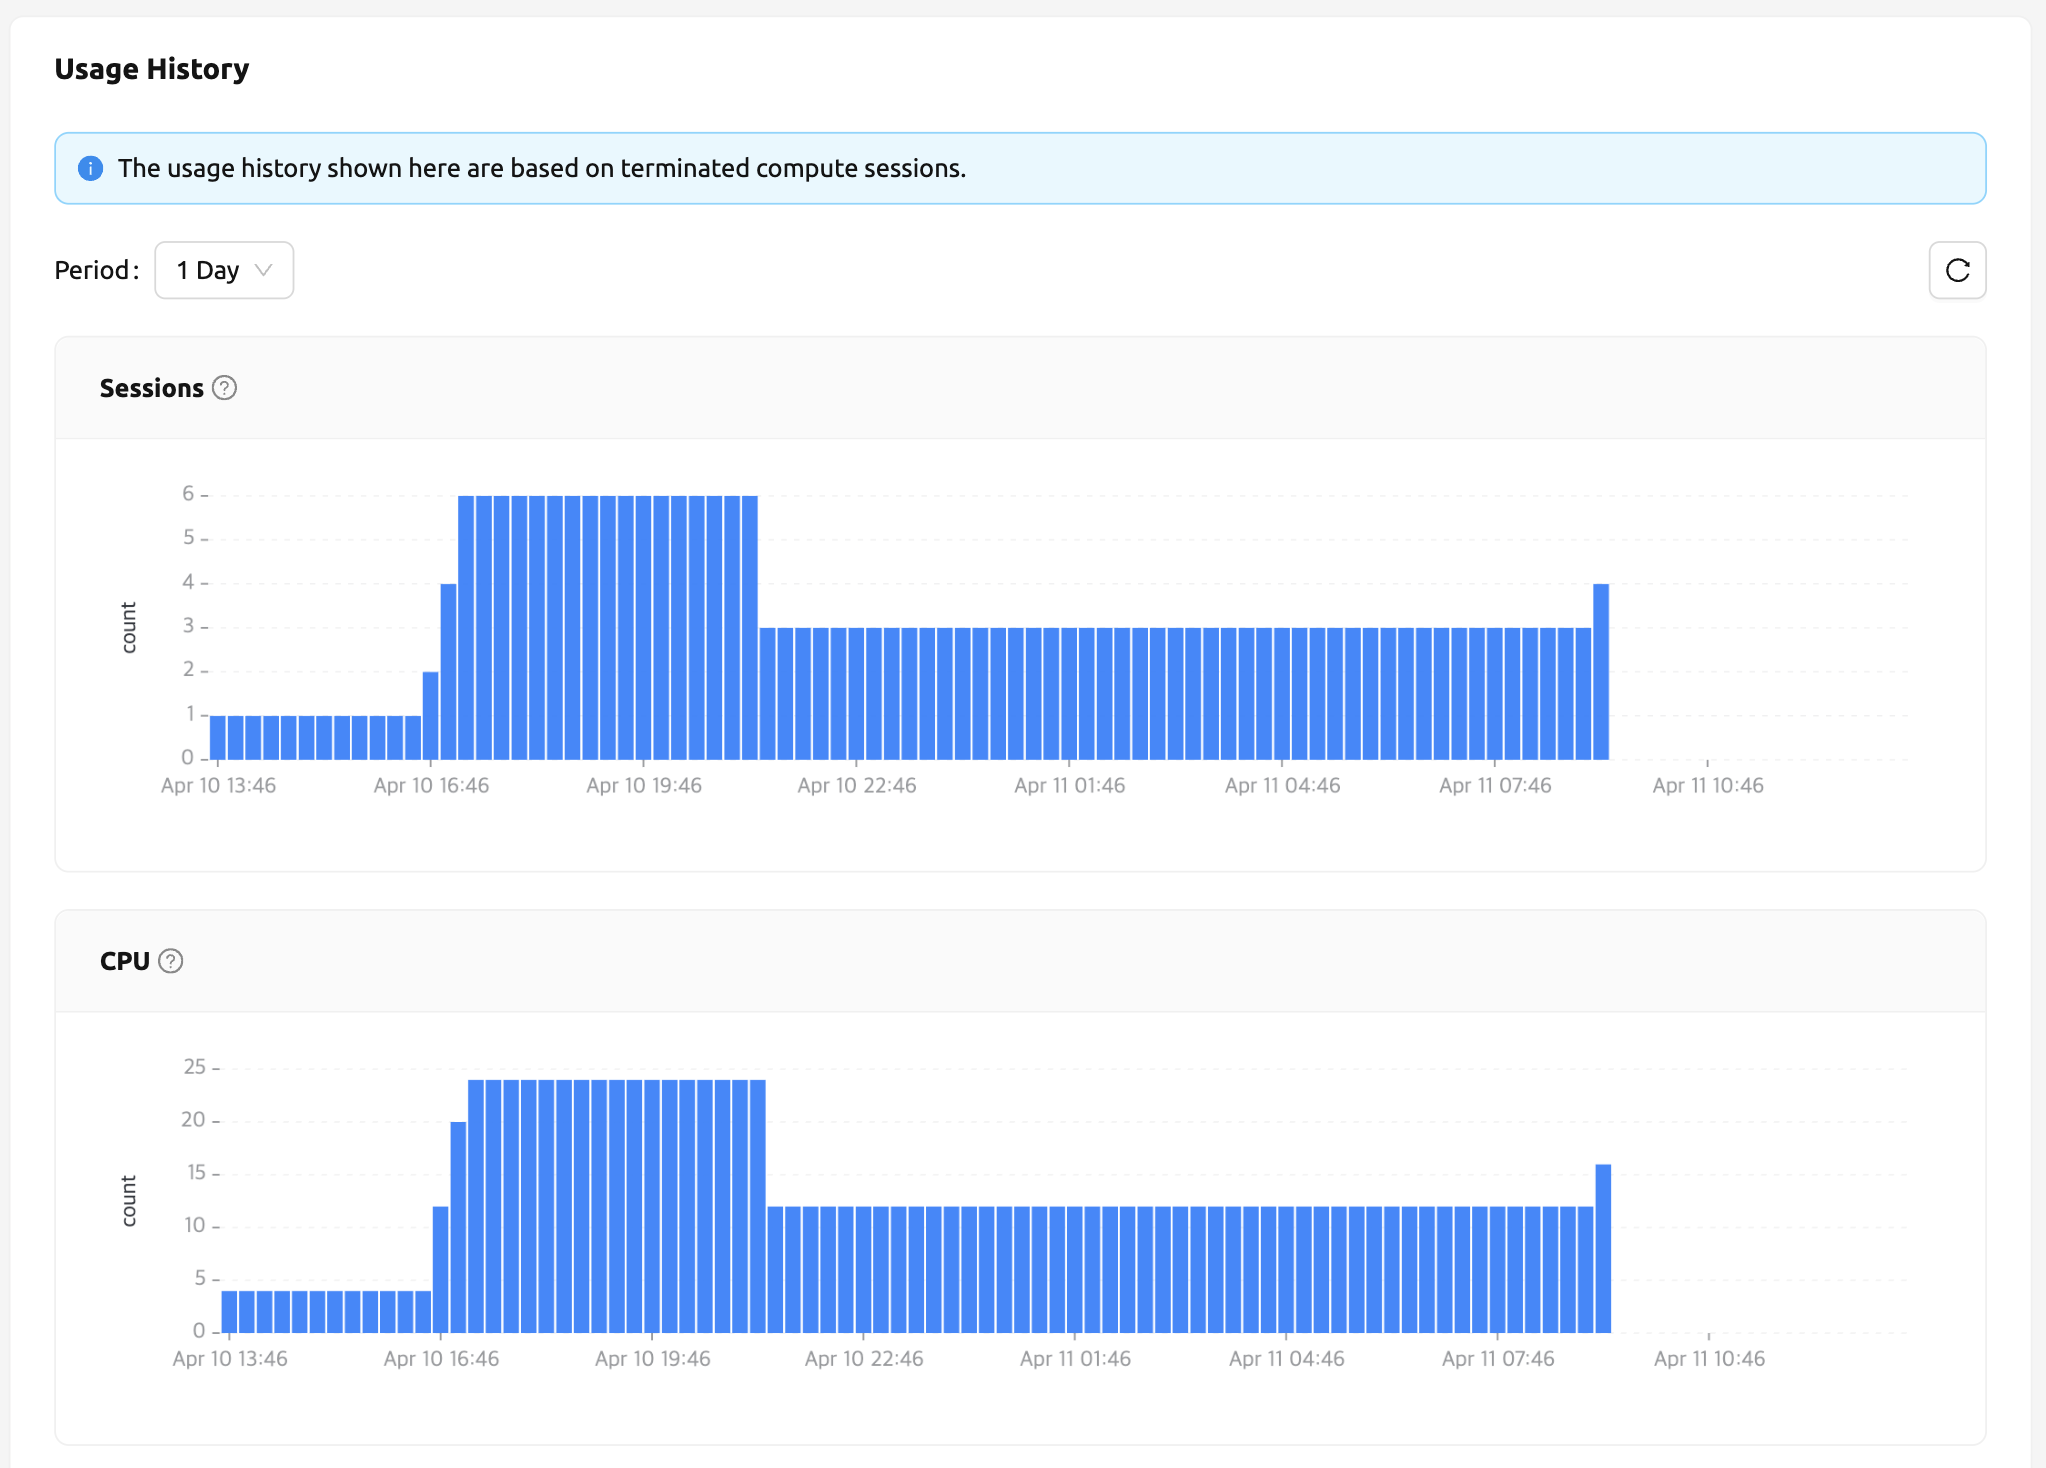
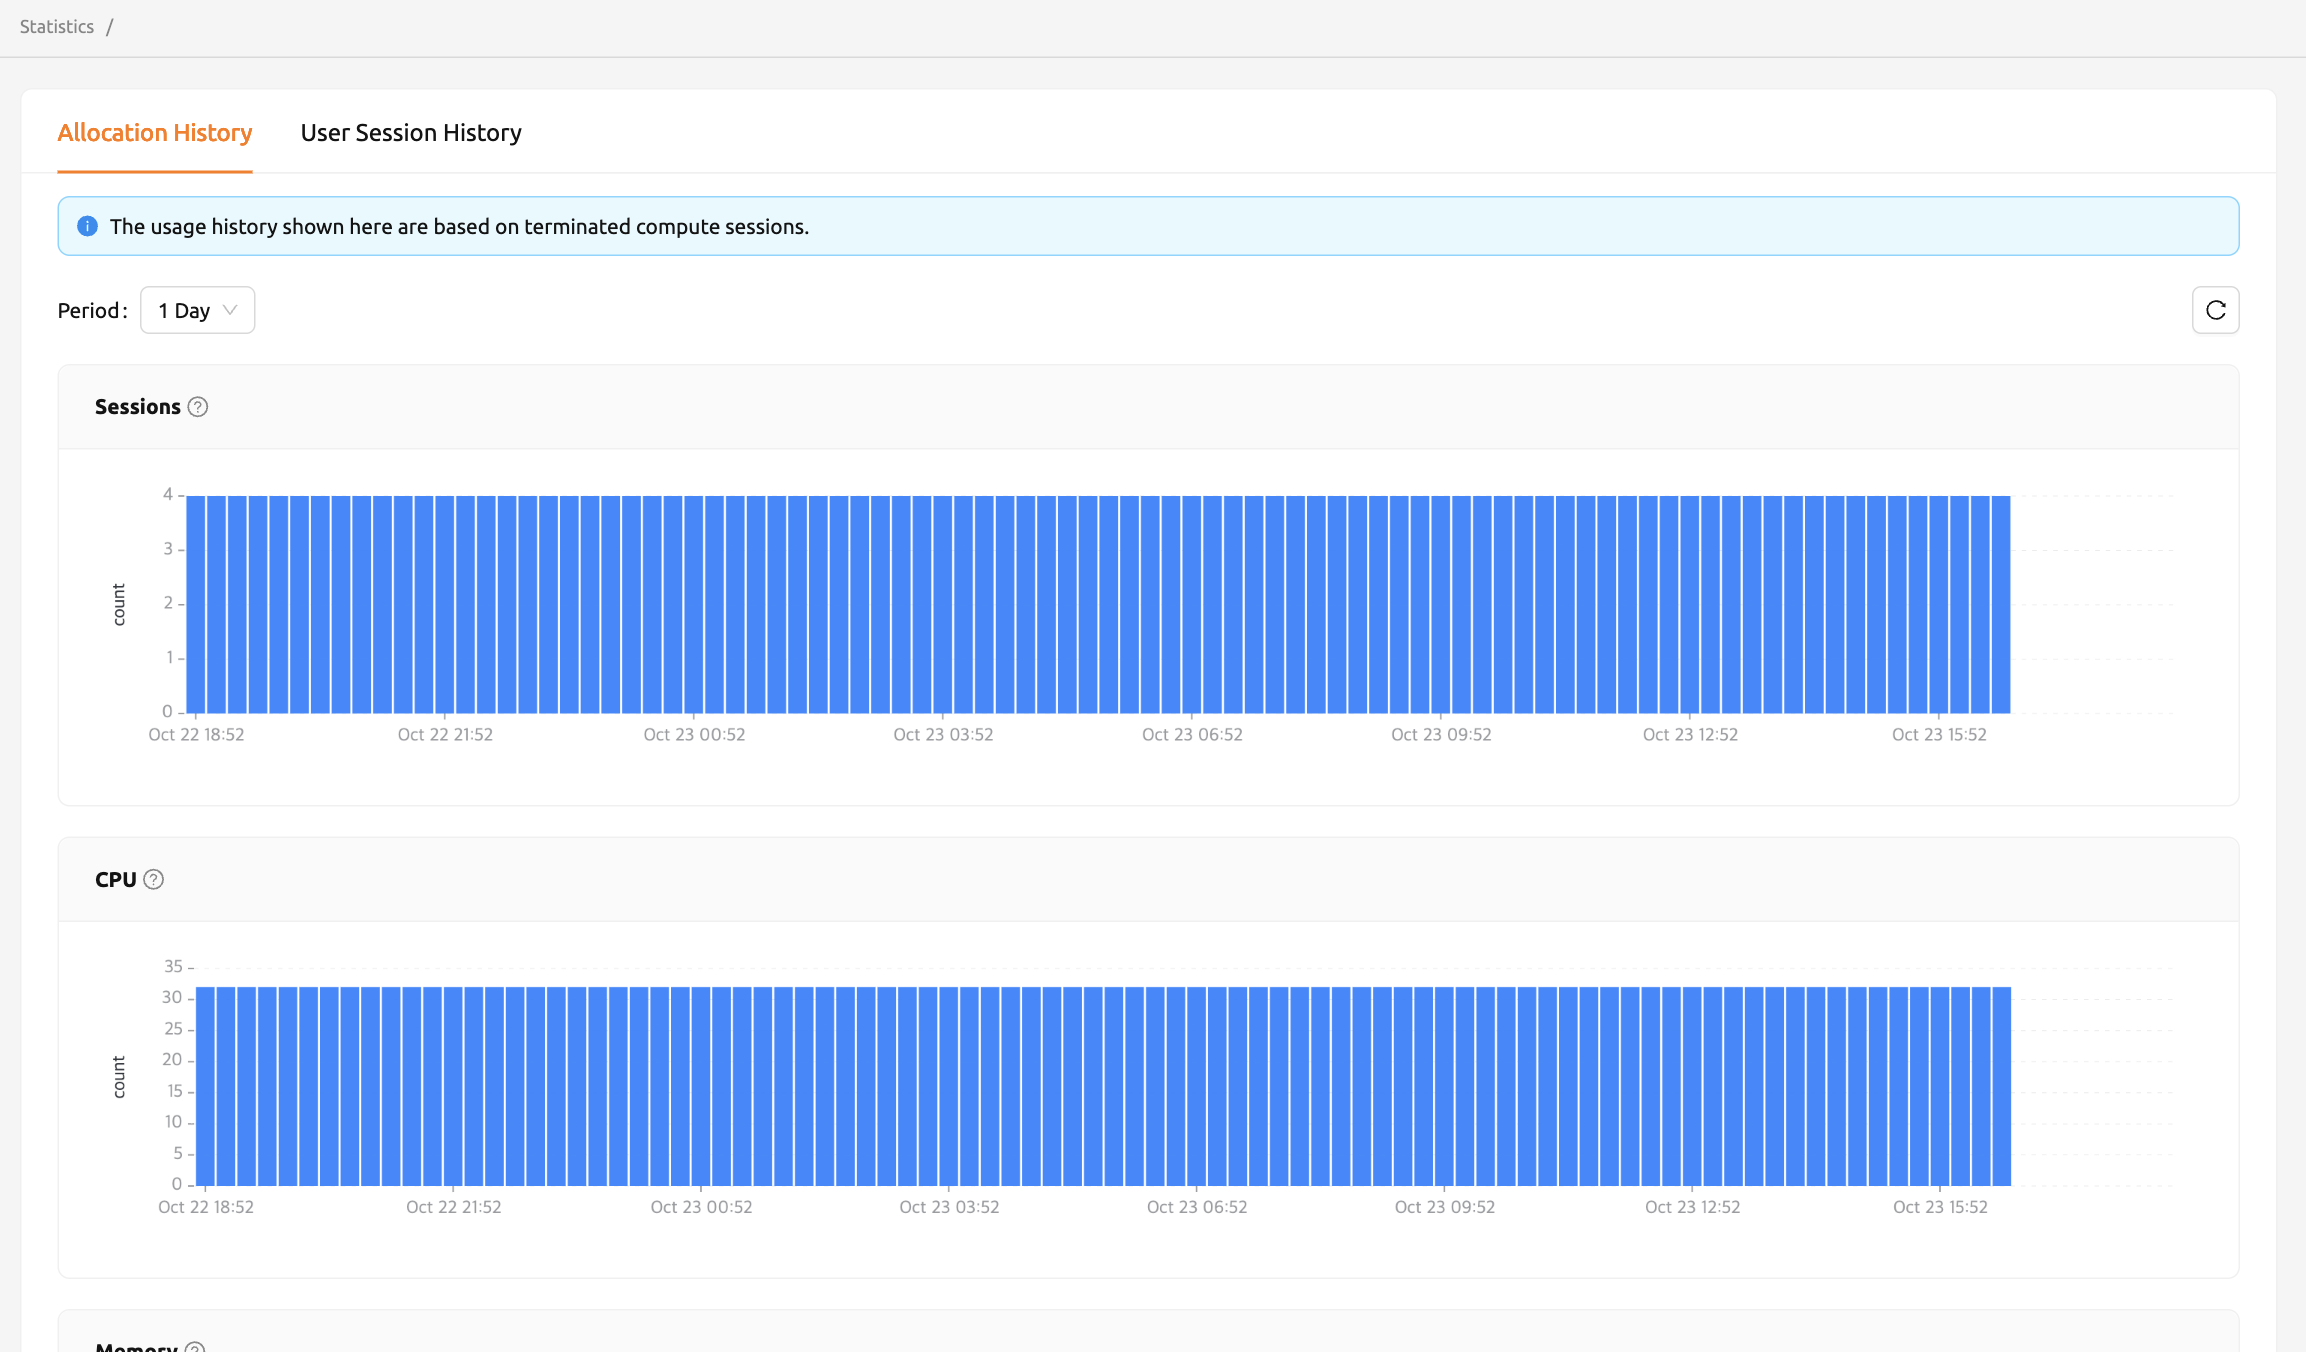
docs(FR-1586): documentation update for the Statistics page (#138)
resolves #128 [(FR-1586)](https://lablup.atlassian.net/browse/FR-1586)
[Backend.AI Web-UI User Guide Statistics Page (ko).pdf](https://github.com/user-attachments/files/23111037/Backend.AI.Web-UI.User.Guide.Statistics.Page.ko.pdf)
[Backend.AI Web-UI User Guide Statistics Page (en).pdf](https://github.com/user-attachments/files/23111038/Backend.AI.Web-UI.User.Guide.Statistics.Page.en.pdf)

Added a new "User Session History" tab to the Statistics page that allows users to view detailed resource usage statistics for their sessions. The tab displays graphs for:

- CPU Utilization
- Memory usage
- Network data transfer rates (Rx/Tx)
- Storage I/O (Read/Write)
- GPU utilization and memory (when available)

Also reorganized the existing statistics view into an "Allocation History" tab and updated the documentation in both English and Korean to reflect these changes. Updated screenshots to show the new interface.

diff --git a/docs/statistics/statistics.rst b/docs/statistics/statistics.rst
@@ -2,7 +2,10 @@
 Statistics Page
 ===============
 
-On the Statistics page, you can check simple statistics related to the use of
+Allocation history
+------------------
+
+On the Statistics page, under the Allocation History tab, you can check simple statistics related to the use of
 compute sessions via a graph. You can check the statistics for a day or a week by selecting the usage period
 from the select period menu on the upper left. Displayed items are as follows.
 
@@ -18,7 +21,27 @@ Note that the statistics shown here are based on terminated compute sessions.
 Also, one week statistics may not be shown for the users whose account is created no
 longer than a week.
 
+.. image:: usage_panel.png
+    :align: center
+    :alt: Usage Panel
+
+User session history
+--------------------
+
+In the User Session History tab of the Statistics page, users can view statistics on various resources used by sessions through graphs. 
+Users can check the statistics for a selected period using the Select Period menu at the upper left. The displayed items are as follows.
+
+* CPU Util: The amount of CPU time used by the sessions.
+* Memory: The amount of memory used by the sessions.
+* Net Rx: The rate at which the container is receiving network data.
+* Net Tx: The rate at which the container is sending network data.
+* IO Read: The amount of data read from the storage by the sessions.
+* IO Write: The amount of data written to the storage by the sessions.
+
+In addition, depending on the available resources, additional items such as CUDA-capable GPU Util and CUDA-capable GPU Mem may be displayed.
+
 More detailed statistics are shown in the admin-only Control-Panel.
 
-.. image:: usage_panel.png
-
+.. image:: user_session_history.png
+    :align: center
+    :alt: User Session History
